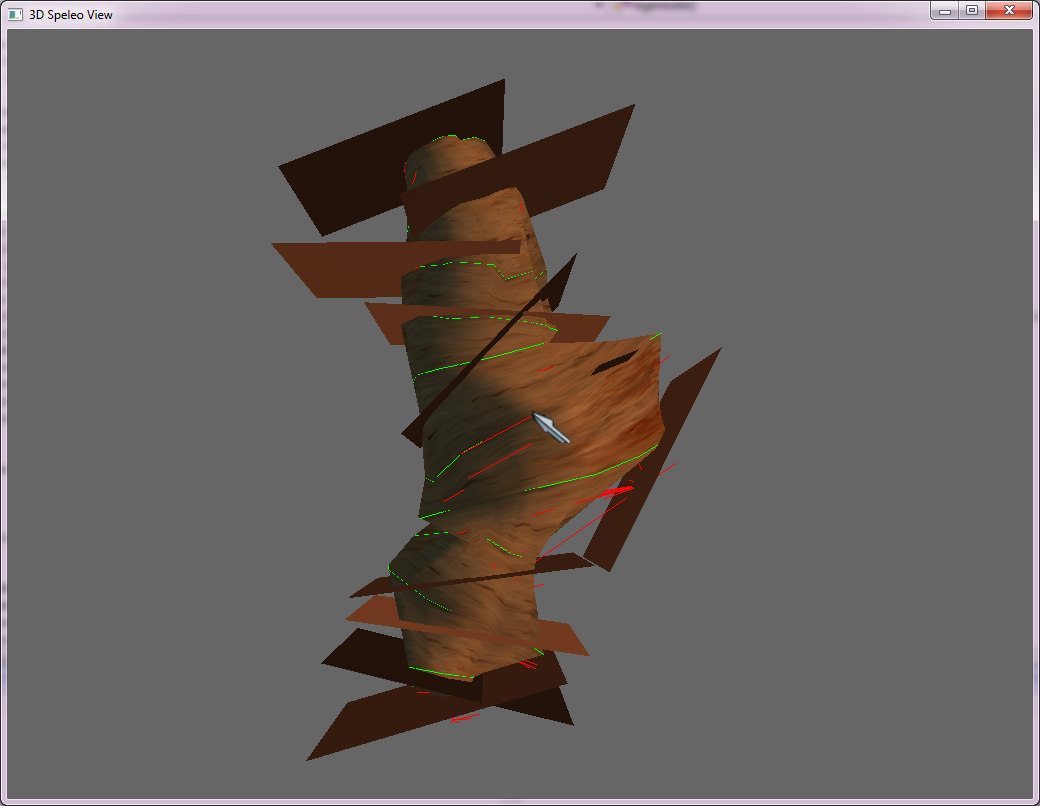
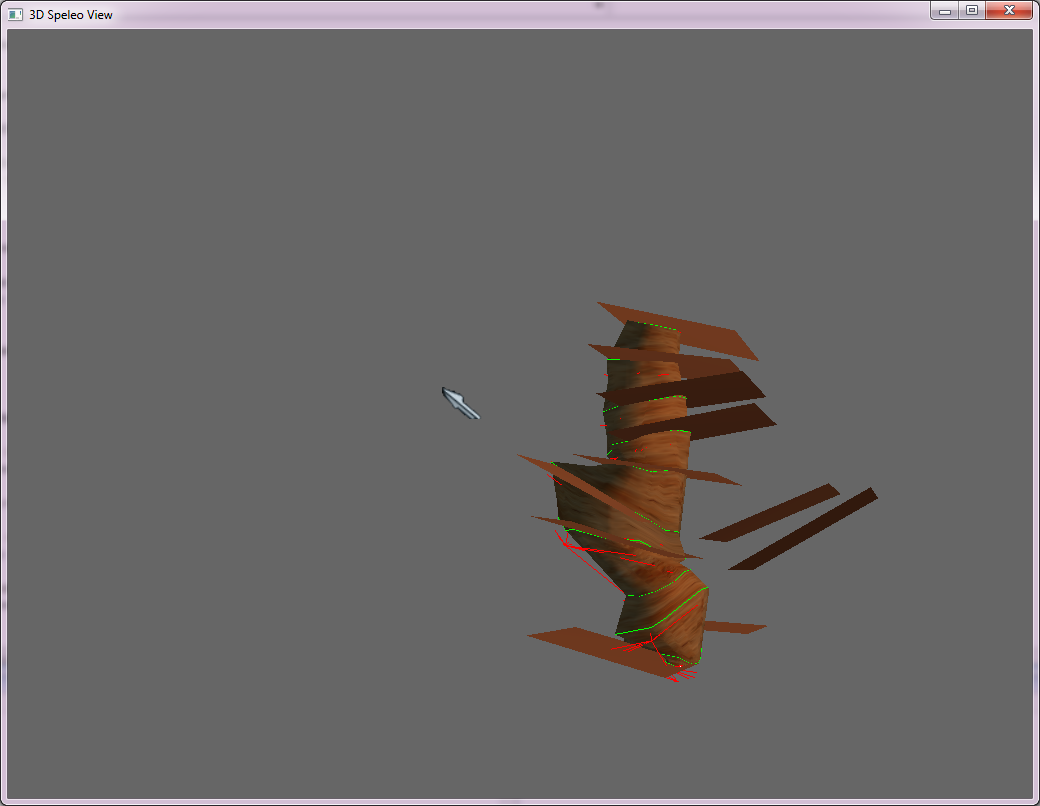
The problem with the best fit planes was two bug, which i corrected now. The reusult is awesome :)

Changed region(s): [[0.2462, 0.0931, 0.8615, 0.9615], [0.5846, 0.0, 0.6769, 0.031]]

diff --git a/src/torus/OgreScretch.cpp b/src/torus/OgreScretch.cpp
@@ -17,7 +17,7 @@
 #include "ogre/movabletext.h"
 
 //-------------------------------------------------------------------------------------
-OgreScretch::OgreScretch(void) : mRoot(0),    mPluginsCfg(Ogre::StringUtil::BLANK),mResourcesCfg(Ogre::StringUtil::BLANK),mCamera(0),alpha(1.0),alphadiff(0.1),passageVisible(true),polygonVisible(true), hullVisible(true),shotVisible(true),mCameraMan(0)
+OgreScretch::OgreScretch(void) : mRoot(0),    mPluginsCfg(Ogre::StringUtil::BLANK),mResourcesCfg(Ogre::StringUtil::BLANK),mCamera(0),alpha(1.0),alphadiff(0.1),passageVisible(true),polygonVisible(true), hullVisible(true),shotVisible(true),planeVisible(true),mCameraMan(0)
 {
 	mRotate = 0.13;	
 	mMove = 250;
@@ -283,7 +283,7 @@ void OgreScretch::regenerate(void) {
 	planesNode = parentnode->createChildSceneNode();
 	int id = 0;
 	int cnt = 0;
-
+	int size = p.points.size();
 	for(std::vector<SourcePoint>::iterator it = p.points.begin(); it != p.points.end(); ++it) {
 		simplex::Plane p = planes[cnt++];
 		Ogre::Plane plane(p.a, p.b, p.c, p.d);
@@ -300,12 +300,13 @@ void OgreScretch::regenerate(void) {
 		Ogre::Entity* entGround = mSceneMgr->createEntity(groundentname , groundname);
 		SceneNode * node = planesNode->createChildSceneNode();
 		node->attachObject(entGround);
-		node->translate(it->toOgreVector());
+		//node->translate(it->toOgreVector());
 		entGround->setMaterialName("Test2/ColourTest");
 		entGround->setCastShadows(false);
 	}
 
 	planesNode->translate(pivotpoint.toOgreVector());
+	planesNode->setVisible(planeVisible);
 
 
 }
@@ -467,6 +468,10 @@ bool OgreScretch::keyPressed( const OIS::KeyEvent &arg ){
 				mod->setDiffuse(139/255.0f, 71/255.0f, 38/255.0f,alpha);
 			}
 			
+		break;
+	case OIS::KC_U:
+		planeVisible = ! planeVisible;
+		planesNode->setVisible(planeVisible);
 		break;
 	case OIS::KC_H :
 		hullVisible = !hullVisible;

diff --git a/src/torus/util/meshutil.cpp b/src/torus/util/meshutil.cpp
@@ -209,12 +209,12 @@ simplex::Plane* util::Mesh::createBestFitPlanes(Passage &passage) {
 	int id = 0;
 	int cnt = 0;
 	
-	SourcePoint prev = passage.points.front();
+	
 
 	for(std::vector<SourcePoint>::iterator it = passage.points.begin(); it != passage.points.end(); ++it) {
 	
-		prev = *it;
-		*(planes+cnt++) = util::Math::getBestFittingPlane(*it);
+		planes[cnt] = util::Math::getBestFittingPlane(*it);
+		cnt++;
 	}
 
 	return planes;

diff --git a/src/torus/util/mathutil.cpp b/src/torus/util/mathutil.cpp
@@ -41,7 +41,7 @@ simplex::Plane util::Math::getBestFittingPlane(SourcePoint &p) {
 
 	float plane[4];
 	
-	getBestFitPlane(3,points,sizeof(float)*3,0,0,plane);
+	getBestFitPlane(size,points,sizeof(float)*3,0,0,plane);
 	//printf("Plane: %f %f %f %f\r\n", plane[0], plane[1], plane[2] );
 	return simplex::Plane(plane[0], plane[1], plane[2], plane[3]);
 }

diff --git a/src/torus/OgreScretch.h b/src/torus/OgreScretch.h
@@ -71,7 +71,7 @@ protected:
 	Ogre::SceneNode *manualnode;
 	Ogre::SceneNode *parentnode;
 	Ogre::SceneNode *hullNode;
-	bool hullVisible,passageVisible,polygonVisible,shotVisible;
+	bool hullVisible,passageVisible,polygonVisible,shotVisible,planeVisible;
 	Ogre::SceneNode *passageNode;
 	Ogre::SceneNode *headNode;
 	Ogre::SceneNode *sphereNode;

diff --git a/src/torus/point.h b/src/torus/point.h
@@ -92,7 +92,7 @@ namespace simplex {
 		double d;
 
 		Plane() : a(0),b(0),c(0),d(0) {}
-		Plane(double a, double b, double c, double d) : a(a), b(b),c(c),d(c) {	}
+		Plane(double a, double b, double c, double d) : a(a), b(b),c(c),d(d) {	}
 	};
 }
 
